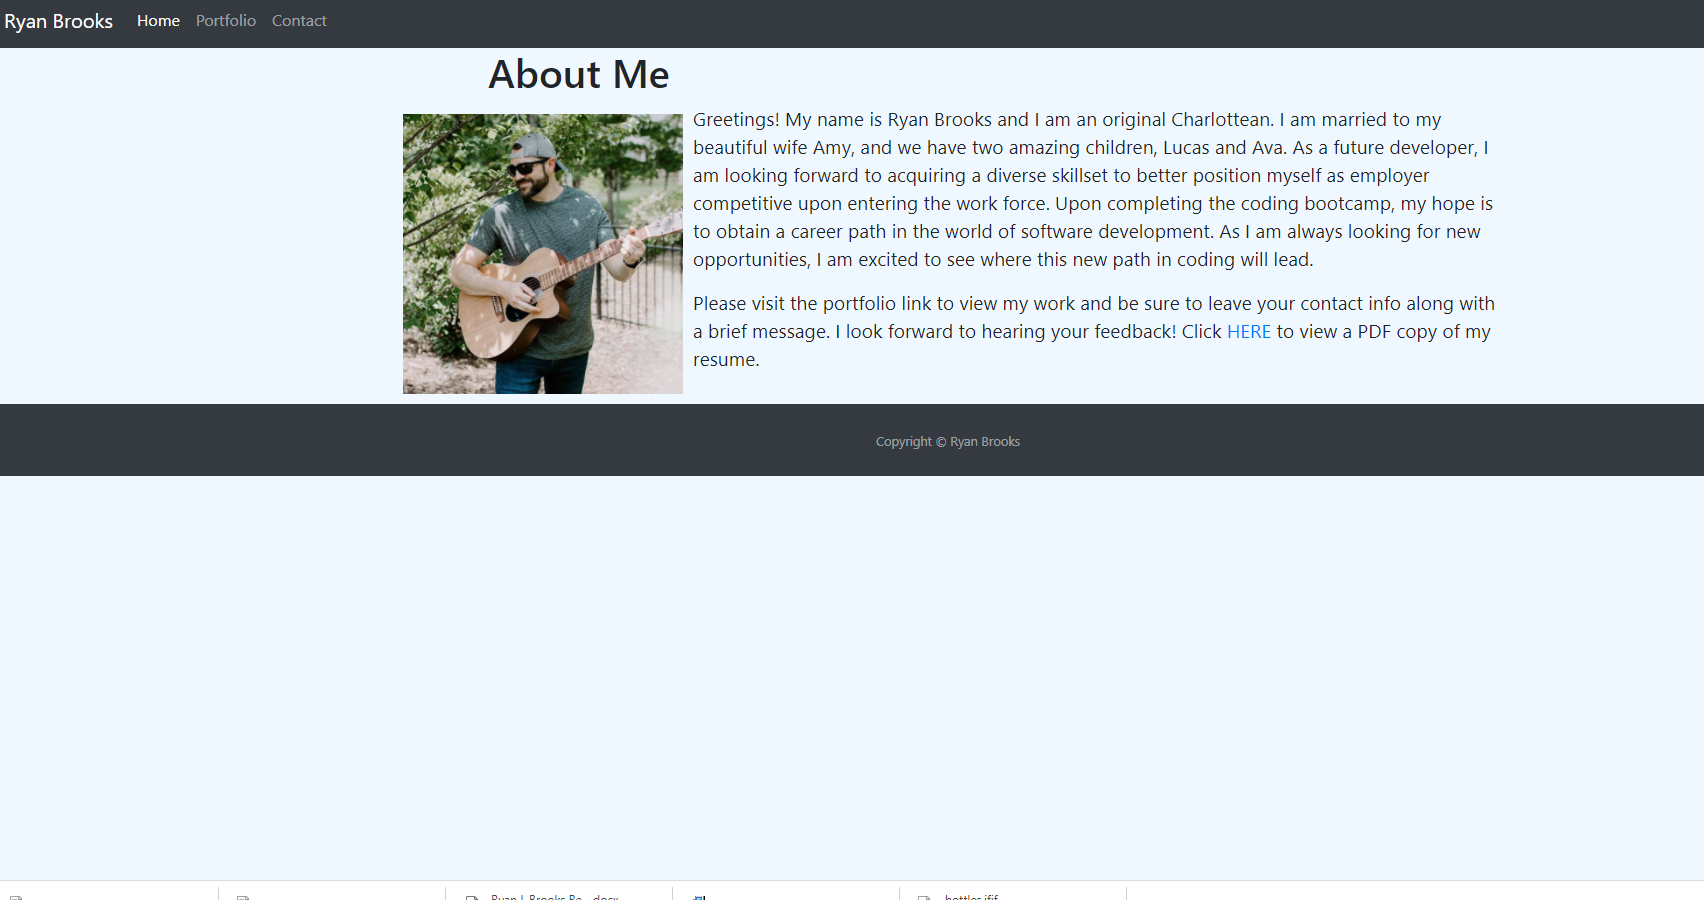
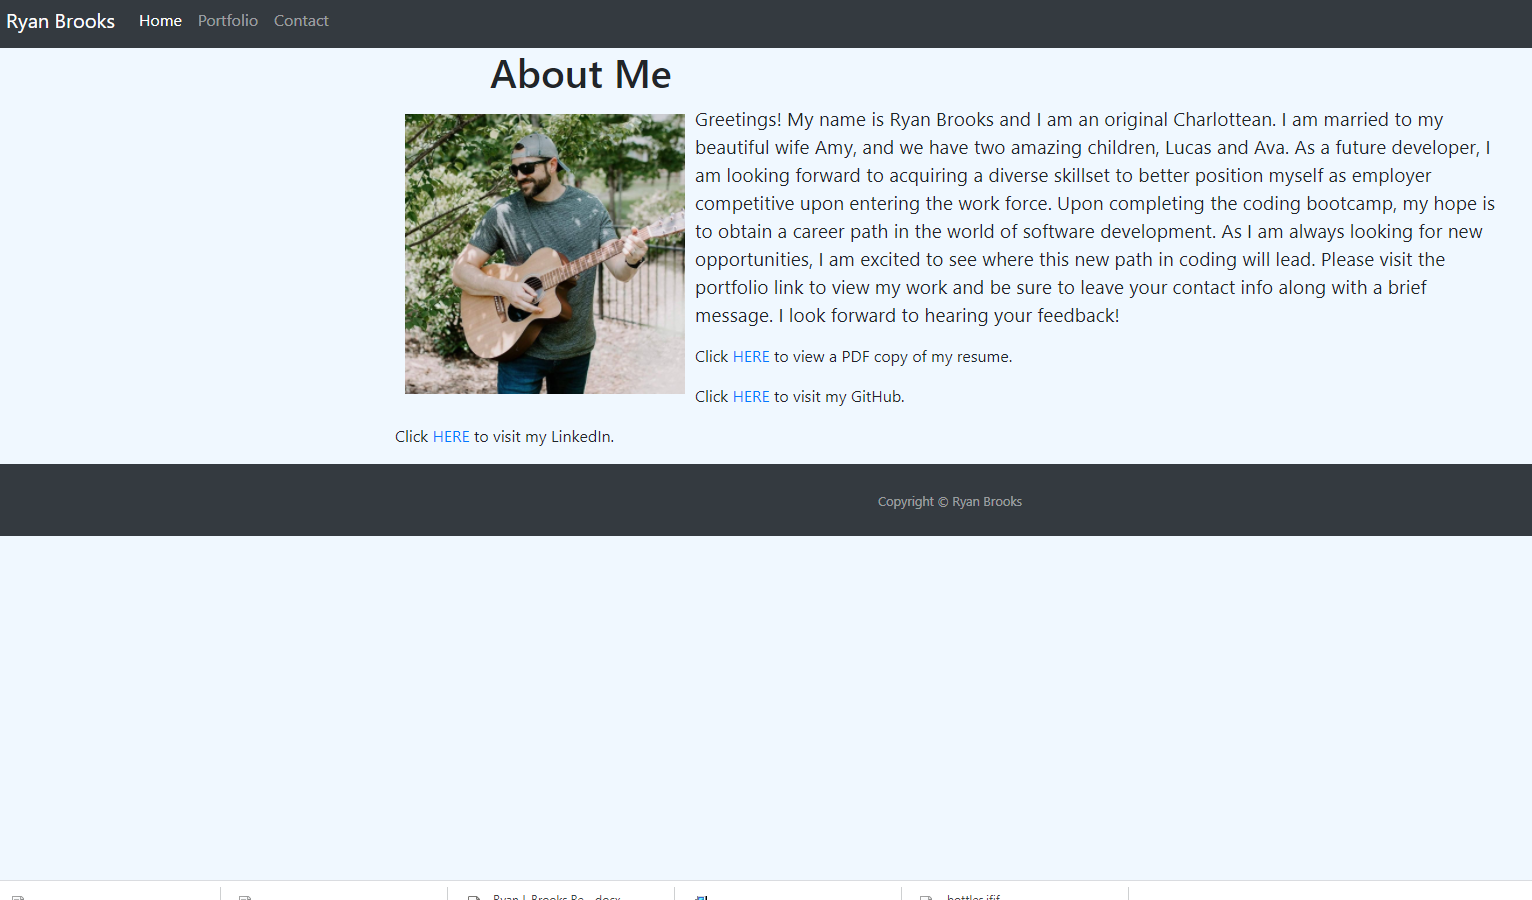
updated index and readme

diff --git a/index.html b/index.html
@@ -42,9 +42,7 @@
     <div class="row">
       <div class="col-12">
         <img class="float-left" width="300" height="300" style="padding: 10px;" src="https://scontent-iad3-1.xx.fbcdn.net/v/t1.0-9/p960x960/66751155_10162008556805574_7153513458804195328_o.jpg?_nc_cat=102&_nc_sid=85a577&_nc_ohc=KFGWtGsjukwAX_0ZBZu&_nc_ht=scontent-iad3-1.xx&_nc_tp=6&oh=334f32d7978605006f36a1c91d00de84&oe=5F476CCB" alt="Ryan Brooks Facebook Pic">
-        <p style="font-size: larger;">Greetings! My name is Ryan Brooks and I am an original Charlottean. I am married to my beautiful wife Amy, and we have two amazing children, Lucas and Ava. As a future developer, I am looking forward to acquiring a diverse skillset to better position myself as employer competitive upon entering the work force. Upon completing the coding bootcamp, my hope is to obtain a career path in the world of software development. As I am always looking for new opportunities, I am excited to see where this new path in coding will lead.</p>
-        <p style="font-size: larger;">Please visit the portfolio link to view my work and be sure to leave your contact info along with a brief message. I look forward to hearing your feedback!</p>
-          
+        <p style="font-size: larger;">Greetings! My name is Ryan Brooks and I am an original Charlottean. I am married to my beautiful wife Amy, and we have two amazing children, Lucas and Ava. As a future developer, I am looking forward to acquiring a diverse skillset to better position myself as employer competitive upon entering the work force. Upon completing the coding bootcamp, my hope is to obtain a career path in the world of software development. As I am always looking for new opportunities, I am excited to see where this new path in coding will lead. Please visit the portfolio link to view my work and be sure to leave your contact info along with a brief message. I look forward to hearing your feedback!</p>
         <p>Click <a href="assets/images/Ryan L Brooks Resume.pdf" target="_blank">HERE</a> to view a PDF copy of my resume.</p>
         <p>Click <a href="https://github.com/ryanbrooks99" target="_blank">HERE</a> to visit my GitHub.</p>
         <p>Click <a href="https://www.linkedin.com/in/ryan-brooks-9973a556/" target="_blank">HERE</a> to visit my LinkedIn.</p>
